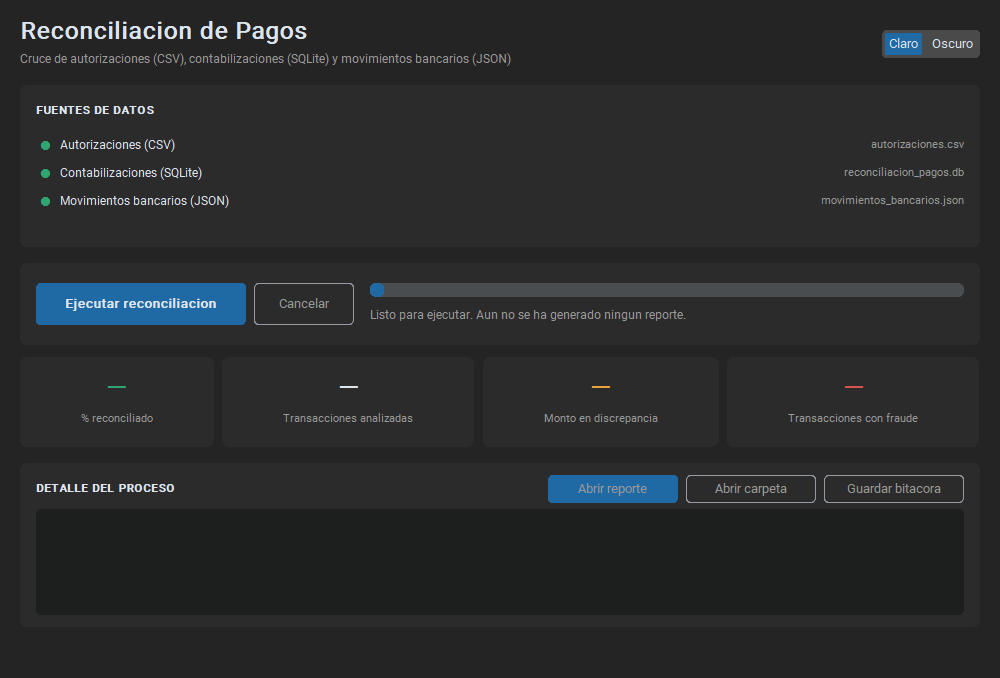
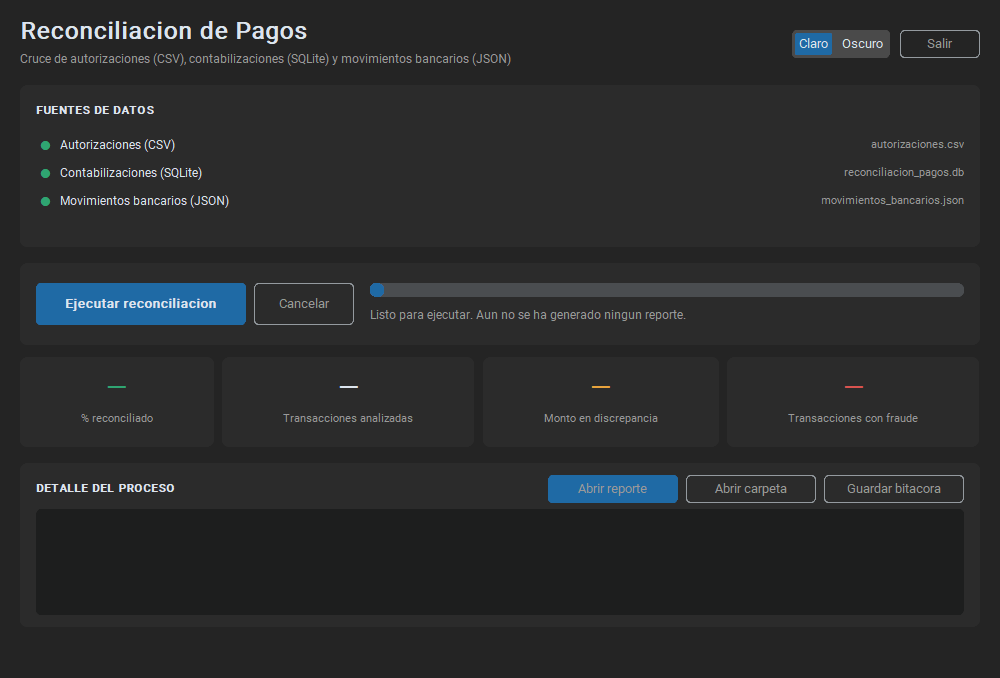
Boton Salir en la interfaz
- Arriba a la derecha y en tono discreto: es una salida, no la accion
  principal, y no debe competir con el boton de ejecutar
- Hace lo mismo que cerrar con la X, para que no haya una forma 'buena'
  y una 'mala' de salir
- Al cerrar se le pide al hilo de trabajo que se detenga, para que no
  siga gastando la maquina ni escribiendo archivos despues de que el
  usuario ya se fue, y se cancela el sondeo pendiente

Probado saliendo en reposo y en pleno proceso: la ventana cierra sin
errores de Tcl y el hilo queda detenido. Capturas actualizadas.

Changed region(s): [[0.775, 0.031, 0.992, 0.0929]]

diff --git a/reconciliacion/gui/app.py b/reconciliacion/gui/app.py
@@ -168,6 +168,18 @@ class AplicacionReconciliacion(ctk.CTk):
         selector.set("Oscuro" if ctk.get_appearance_mode() == "Dark" else "Claro")
         selector.grid(row=0, column=1, rowspan=2, sticky="e")
 
+        # Va arriba y en tono discreto: es una salida, no la accion principal,
+        # y no debe competir visualmente con el boton de ejecutar.
+        ctk.CTkButton(
+            marco,
+            text="Salir",
+            command=self._salir,
+            width=80,
+            fg_color="transparent",
+            border_width=1,
+            text_color=COLOR_NEUTRO,
+        ).grid(row=0, column=2, rowspan=2, sticky="e", padx=(10, 0))
+
     def _construir_fuentes(self) -> None:
         """Panel con el estado de los tres archivos de entrada."""
         marco = ctk.CTkFrame(self, corner_radius=8)
@@ -405,16 +417,37 @@ class AplicacionReconciliacion(ctk.CTk):
             if self.winfo_exists():
                 self._sondeo = self.after(INTERVALO_SONDEO_MS, self._procesar_cola)
 
-    def _al_cerrar(self) -> None:
-        """Cierra la ventana cancelando antes el sondeo pendiente.
+    def _salir(self) -> None:
+        """Cierra la aplicacion desde el boton Salir.
 
-        Sin esto, el `after` que quedo programado se dispara sobre una ventana
-        que ya no existe y Tcl escribe un error en la consola. El hilo de
-        trabajo es `daemon`, asi que no impide que el programa termine.
+        Hace exactamente lo mismo que cerrar la ventana con la X, para que las
+        dos formas de salir se comporten igual y no haya una "buena" y una
+        "mala".
         """
+        self._al_cerrar()
+
+    def _al_cerrar(self) -> None:
+        """Cierra la ventana dejando todo en orden.
+
+        Dos cuidados antes de destruir la ventana:
+
+        * se le pide al hilo de trabajo que se detenga, para que no siga
+          gastando la maquina ni escribiendo archivos despues de que el usuario
+          ya se fue;
+        * se cancela el sondeo pendiente, porque si no el `after` programado se
+          dispara sobre una ventana que ya no existe y Tcl escribe un error en
+          la consola.
+
+        El hilo es `daemon`, asi que en ningun caso impide que el programa
+        termine.
+        """
+        if self.trabajador is not None and self.trabajador.is_alive():
+            self.trabajador.cancelar()
+
         if self._sondeo is not None:
             self.after_cancel(self._sondeo)
             self._sondeo = None
+
         self.destroy()
 
     def _atender(self, mensaje: Mensaje) -> None:
